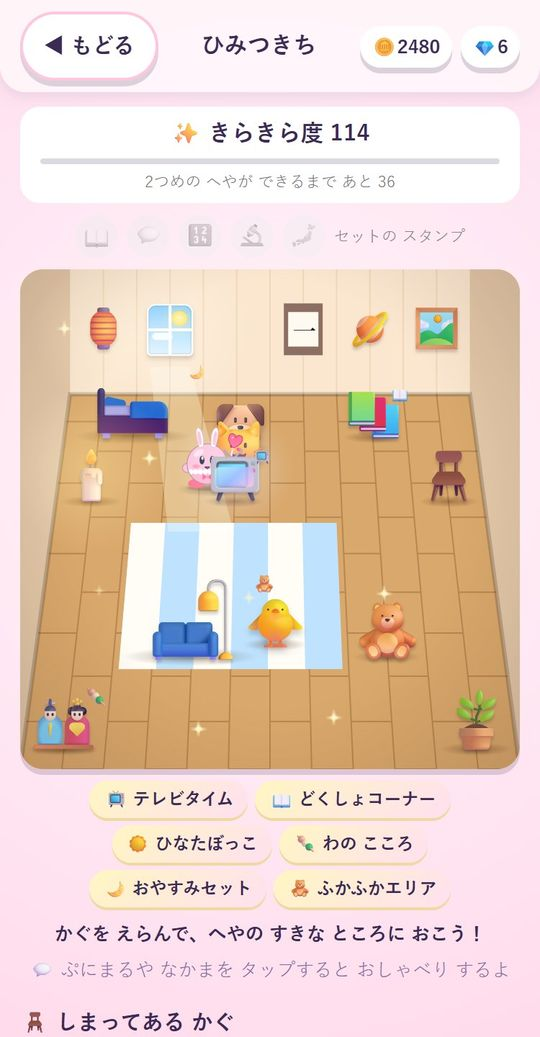
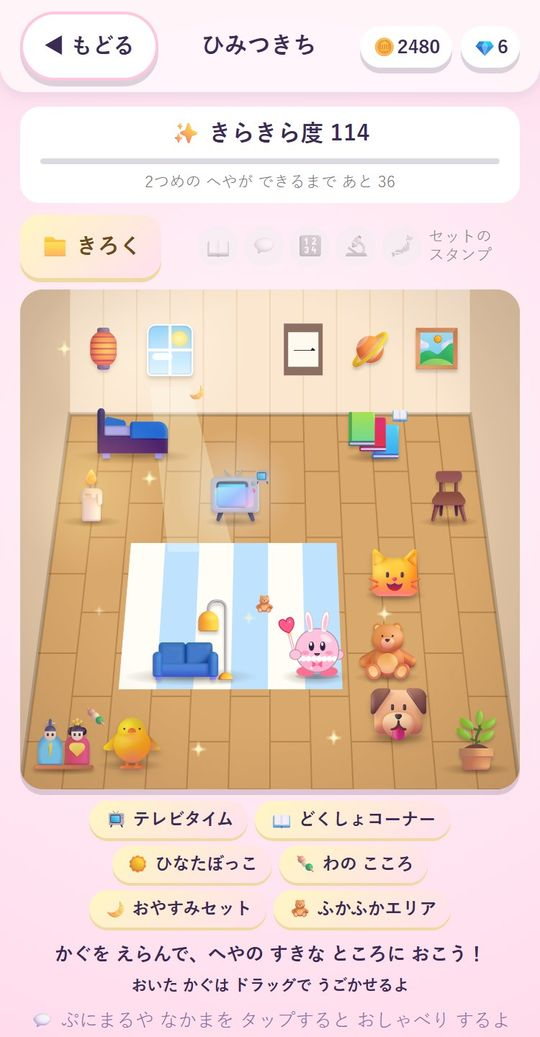
ひみつきちのボタン配置を整理（v56）
- 「きろく」を部屋タブの列の左端に固定（部屋が1つのときは右にセットのスタンプ）
- なかま・もようがえ・かぐを1列に収め、部屋のすぐ下へ移動
- 説明書の古い分類名・ボタン名を修正し、画面写真を更新

diff --git a/room.js b/room.js
@@ -205,21 +205,23 @@ function room() {
   const stock = stockAll.filter((f) => roomCat === "all" || fKind(f) === roomCat);
   setScreen(`${topBar("ひみつきち")}
     <div class="kira"><b>✨ きらきら度 ${k}</b>${next ? `<span class="bar"><i style="width:${Math.min(100, ((k - prev) / (next - prev)) * 100)}%"></i></span><small>${next === ROOM_BIG ? "へやが ひろく なる" : "2つめの へやが できる"}まで あと ${next - k}</small>` : `<small>へやは ぜんぶ ひらいたよ！</small>`}</div>
-    ${roomTwo() ? `<div class="tabs">${[0, 1].map((i) => `<button class="${R.cur === i ? "on" : ""}" onclick="roomData().cur=${i};RM={sel:'',move:-1};room()">へや ${i + 1}</button>`).join("")}</div>` : ""}
-    <div class="stamps">${FURN_SETS.map((w) => `<span class="${R.stamps[w] ? "on" : ""}" title="${WORLDS.find((x) => x.id === w).name}セット">${WORLDS.find((x) => x.id === w).icon}</span>`).join("")}<small>セットの スタンプ</small></div>
+    <div class="tabs rmtabs"><button class="rmsave" onclick="roomSaveMenu()">📁 きろく</button>${roomTwo() ? [0, 1].map((i) => `<button class="${R.cur === i ? "on" : ""}" onclick="roomData().cur=${i};RM={sel:'',move:-1};room()">へや ${i + 1}</button>`).join("") : stampsHTML()}</div>
+    ${roomTwo() ? stampsHTML() : ""}
     <div id="roombox">${roomHTML()}</div>
     ${comboStrip()}
     <div class="rmhint" id="rmhint">${roomHint()}</div>
     ${!RM.sel && RM.move < 0 && (roomPetList().length || 1) ? `<p class="small rmtip">💬 ぷにまるや なかまを タップすると おしゃべり するよ</p>` : ""}
+    <div class="row rmbtns"><button class="big-btn" onclick="roomPets()">🐾 なかま</button><button class="big-btn" onclick="roomThemePick()">🎨 もようがえ</button><button class="big-btn" onclick="go('shop','furn')">🛒 かぐ</button></div>
     <div class="sub">🪑 しまってある かぐ</div>
     ${kinds.length > 1 ? `<div class="fcats"><button class="${roomCat === "all" ? "on" : ""}" onclick="roomCat='all';room()">すべて<i>${stockAll.length}</i></button>${kinds.map((k) => `<button class="${roomCat === k ? "on" : ""}" onclick="roomCat='${k}';room()">${FKIND[k].em}${FKIND[k].name}<i>${stockAll.filter((f) => fKind(f) === k).length}</i></button>`).join("")}</div>` : ""}
     <div class="fstock">${stock.length ? stock.map((f) => `<button class="${RM.sel === f.id ? "on" : ""}" onclick="roomPick('${f.id}')"><span>${fIcon(f)}</span><small>${f.name}</small>${fOwn(f.id) - fPlaced(f.id) > 1 ? `<i>×${fOwn(f.id) - fPlaced(f.id)}</i>` : ""}</button>`).join("") : `<p class="small">ショップの「かぐ」で かえるよ。おいた かぐを タップすると しまえるよ。</p>`}</div>
-    <div class="row rmbtns"><button class="big-btn" onclick="roomPets()">🐾 なかま</button><button class="big-btn" onclick="roomThemePick()">🎨 もようがえ</button><button class="big-btn" onclick="roomSaveMenu()">📁 きろく</button><button class="big-btn" onclick="go('shop','furn')">🛒 かぐ</button></div>
     <p class="small" style="text-align:center">へやの ひろさ：よこ ${C}マス${roomData().rooms[1].length || roomTwo() ? "・へやは 2つ" : ""}</p>`, "bg-home");
   roomWalk();
   roomDragInit();
 }
 
+// 国セットの スタンプ（へやが 1つの ときは「きろく」の よこに ならべる）
+const stampsHTML = () => `<div class="stamps">${FURN_SETS.map((w) => `<span class="${roomData().stamps[w] ? "on" : ""}" title="${WORLDS.find((x) => x.id === w).name}セット">${WORLDS.find((x) => x.id === w).icon}</span>`).join("")}<small>セットの<br>スタンプ</small></div>`;
 function roomHint() {
   if (RM.sel) { const f = furnById(RM.sel); return `${fIcon(f)} ${f.name}：${f.wall ? "かべの" : "ゆかの"} おきたい ところを タップしてね <button class="mini" onclick="RM={sel:'',move:-1};room()">やめる</button>`; }
   if (RM.move >= 0) { const f = furnById(roomList()[RM.move].id); return `${fIcon(f)} ${f.name}を どこへ うごかす？ <button class="mini" onclick="RM={sel:'',move:-1};room()">やめる</button>`; }

diff --git a/manual/_src/puniquest-manual.html b/manual/_src/puniquest-manual.html
@@ -642,12 +642,12 @@ footer { margin-top: 48px; text-align: center; color: var(--ink-soft); font-size
       <div class="g">
         <div class="phone"><img src="img/50_room.jpg" alt="ひみつきちの へや" width="750" height="1440" loading="lazy"></div>
         <h4>🏠 ひみつきち</h4>
-        <p>ホームの いちばん下の <span class="tap">🏠 ひみつきち</span> で 入れるよ。ぷにまると なかまが へやの 中を あるきまわっているよ。<span class="tap">🐾 なかまを よぶ</span> で、へやに よぶ なかまを 3びきまで えらべるよ。</p>
+        <p>ホームの いちばん下の <span class="tap">🏠 ひみつきち</span> で 入れるよ。ぷにまると なかまが へやの 中を あるきまわっているよ。<span class="tap">🐾 なかま</span> で、へやに よぶ なかまを 3びきまで えらべるよ。</p>
       </div>
       <div class="g">
         <div class="phone"><img src="img/50b_place.jpg" alt="かぐを おく ところ" width="750" height="1440" loading="lazy"></div>
         <h4>かぐを おく</h4>
-        <p>下の「しまってある かぐ」から かぐを えらぶと（<b>くつろぐ・あそぶ・まなぶ・しぜん・おきもの・かべ</b> の ボタンで しゅるいごとに しぼれるよ）、おける ところが <b>みどりいろ</b>に 光るよ。すきな ところを タップして おこう。まどや え などは <b>かべ</b>に かざるよ。<b>しきもの（ラグ）</b>は ゆかに しいて、その 上に ほかの かぐを おけるよ。おいた かぐは <b>ゆびで おして ドラッグ</b>すると、そのまま うごかせるよ（おけない ところでは もとに もどるよ）。タップすると <b>うごかす・しまう</b> の メニューが 出るよ。 <span class="tap">📁 きろく</span> では、へやの ならびを <b>3つまで ほぞん</b> して、あとで <b>よみこむ</b> ことが できるよ。<b>へやを まっさらに する</b> ときは、いまの へやを きろく しておくか きいてくれるよ。</p>
+        <p>下の「しまってある かぐ」から かぐを えらぶと（<b>ねる・すわる・つくえ・あかり・しきもの・かべ</b> などの ボタンで しゅるいごとに しぼれるよ）、おける ところが <b>みどりいろ</b>に 光るよ。すきな ところを タップして おこう。まどや え などは <b>かべ</b>に かざるよ。<b>しきもの（ラグ）</b>は ゆかに しいて、その 上に ほかの かぐを おけるよ。おいた かぐは <b>ゆびで おして ドラッグ</b>すると、そのまま うごかせるよ（おけない ところでは もとに もどるよ）。タップすると <b>うごかす・しまう</b> の メニューが 出るよ。 <span class="tap">📁 きろく</span>（へやの 上の 左はし）では、へやの ならびを <b>3つまで ほぞん</b> して、あとで <b>よみこむ</b> ことが できるよ。<b>へやを まっさらに する</b> ときは、いまの へやを きろく しておくか きいてくれるよ。</p>
       </div>
       <div class="g">
         <div class="phone"><img src="img/50g_more.jpg" alt="いろいろな かぐと トロフィーだな" width="750" height="1440" loading="lazy"></div>

diff --git a/manual/kids.html b/manual/kids.html
@@ -664,12 +664,12 @@ section, header, nav.toc, .pc, .qa { scroll-margin-top: 84px; }
       <div class="g">
         <div class="phone"><img src="img/50_room.jpg" alt="ひみつきちの へや" width="750" height="1440" loading="lazy"></div>
         <h4>🏠 ひみつきち</h4>
-        <p>ホームの いちばん下の <span class="tap">🏠 ひみつきち</span> で 入れるよ。ぷにまると なかまが へやの 中を あるきまわっているよ。<span class="tap">🐾 なかまを よぶ</span> で、へやに よぶ なかまを 3びきまで えらべるよ。</p>
+        <p>ホームの いちばん下の <span class="tap">🏠 ひみつきち</span> で 入れるよ。ぷにまると なかまが へやの 中を あるきまわっているよ。<span class="tap">🐾 なかま</span> で、へやに よぶ なかまを 3びきまで えらべるよ。</p>
       </div>
       <div class="g">
         <div class="phone"><img src="img/50b_place.jpg" alt="かぐを おく ところ" width="750" height="1440" loading="lazy"></div>
         <h4>かぐを おく</h4>
-        <p>下の「しまってある かぐ」から かぐを えらぶと（<b>くつろぐ・あそぶ・まなぶ・しぜん・おきもの・かべ</b> の ボタンで しゅるいごとに しぼれるよ）、おける ところが <b>みどりいろ</b>に 光るよ。すきな ところを タップして おこう。まどや え などは <b>かべ</b>に かざるよ。<b>しきもの（ラグ）</b>は ゆかに しいて、その 上に ほかの かぐを おけるよ。おいた かぐは <b>ゆびで おして ドラッグ</b>すると、そのまま うごかせるよ（おけない ところでは もとに もどるよ）。タップすると <b>うごかす・しまう</b> の メニューが 出るよ。 <span class="tap">📁 きろく</span> では、へやの ならびを <b>3つまで ほぞん</b> して、あとで <b>よみこむ</b> ことが できるよ。<b>へやを まっさらに する</b> ときは、いまの へやを きろく しておくか きいてくれるよ。</p>
+        <p>下の「しまってある かぐ」から かぐを えらぶと（<b>ねる・すわる・つくえ・あかり・しきもの・かべ</b> などの ボタンで しゅるいごとに しぼれるよ）、おける ところが <b>みどりいろ</b>に 光るよ。すきな ところを タップして おこう。まどや え などは <b>かべ</b>に かざるよ。<b>しきもの（ラグ）</b>は ゆかに しいて、その 上に ほかの かぐを おけるよ。おいた かぐは <b>ゆびで おして ドラッグ</b>すると、そのまま うごかせるよ（おけない ところでは もとに もどるよ）。タップすると <b>うごかす・しまう</b> の メニューが 出るよ。 <span class="tap">📁 きろく</span>（へやの 上の 左はし）では、へやの ならびを <b>3つまで ほぞん</b> して、あとで <b>よみこむ</b> ことが できるよ。<b>へやを まっさらに する</b> ときは、いまの へやを きろく しておくか きいてくれるよ。</p>
       </div>
       <div class="g">
         <div class="phone"><img src="img/50g_more.jpg" alt="いろいろな かぐと トロフィーだな" width="750" height="1440" loading="lazy"></div>

diff --git a/style.css b/style.css
@@ -971,3 +971,14 @@ button.okbar { display: block; width: calc(100% - 32px); border: 0; cursor: poin
 .rsvbtn .mini { border: 0; border-radius: 99px; padding: 6px 12px; background: #fff; box-shadow: var(--shadow); font-weight: 900; font-size: 13px; }
 .rsvpick { display: grid; gap: 6px; }
 .rsvpick .big-btn { margin: 0; font-size: 15px; }
+/* きろくは へやタブの 列の 左はし。下の ボタンは 1れつ */
+.tabs.rmtabs { justify-content: flex-start; }
+.tabs.rmtabs .rmsave { flex: 0 0 auto; padding: 10px 14px; background: linear-gradient(135deg, #fff6c2, #ffe0f0); box-shadow: 0 3px 0 #f0d9a0; color: #6b4a1e; }
+.tabs.rmtabs button:not(.rmsave) { flex: 1 1 0; }
+.rmbtns { flex-wrap: nowrap; gap: 6px; }
+.rmbtns .big-btn { flex: 1 1 0; min-width: 0; font-size: 13px; padding: 12px 2px; white-space: nowrap; margin: 0; }
+.rmbtns { margin: 4px 0 10px; }
+.tabs.rmtabs { position: static; align-items: center; margin: 0 0 8px; padding: 0; background: none; -webkit-backdrop-filter: none; backdrop-filter: none; }
+.tabs.rmtabs .stamps { flex: 1; margin: 0; gap: 4px; }
+.tabs.rmtabs .stamps span { width: 28px; height: 28px; font-size: 15px; }
+.stamps small { line-height: 1.2; }

diff --git a/sw.js b/sw.js
@@ -1,6 +1,6 @@
 // オフラインでも遊べるように、アプリのファイルを保存しておく
 // ※アプリを更新したら VERSION の数字を上げる
-const VERSION = "puni-v55";
+const VERSION = "puni-v56";
 const FILES = ["./", "index.html", "style.css", "data.js", "world.js", "c_kanji.js", "c_kotoba.js", "c_math.js", "c_sci.js", "c_soc.js", "cloud.js", "pets.js", "music.js", "gear.js", "extra.js", "treasure.js", "hiken.js", "okaeri.js", "otsukai.js", "room.js", "furnart.js", "roomview.js", "talk.js", "yomi.js", "app.js", "manifest.webmanifest", "icons/icon-192.png", "icons/apple-touch-icon.png"];
 
 self.addEventListener("install", (e) => {
